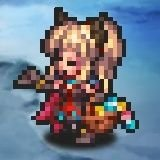
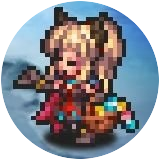
ファビコン設定

diff --git a/index.html b/index.html
@@ -20,11 +20,12 @@
     <meta property="og:description" content="ロマサガRS運営からのお便りまとめ" /> <!--記事の要約（ディスクリプション）-->
     <meta property="og:image" content="https://taumax-github.github.io/sagamax/images/sagamax.png" /> <!--画像のURL-->
 
+    <link rel="icon"       href="images/favicon.ico">
     <link rel="stylesheet" href="css/style.css">
     <link rel="stylesheet" href="css/print.css" media="print">
     <script src="js/openclose.js"></script>
 
-    <title>ロマサガRS運営からのお便りまとめ</title>
+    <title>ｓａｇａｍａｘのページ</title>
     
     <!--[if lt IE 9]>
     <script src="https://oss.maxcdn.com/html5shiv/3.7.2/html5shiv.min.js"></script>
@@ -51,7 +52,7 @@
 <header class="pc">
   <!--PC用（801px以上端末）メニュー-->
   <ul class="icon">
-    <li><a href="https://twitter.com/sagamax__" target="_blank"><img src="images/icon_twitter.png" alt="Twitter"></a></li>
+    <li><a href="https://twitter.com/sagamax__" target="_blank"><img src="images/icon_twitter.png" alt="Twitter"><br><font size="2px">@sagamax</font></a></li>
   </ul>
   <nav>
   </nav>
@@ -65,7 +66,7 @@
     <nav>
     </nav>
     <ul class="icon">
-      <li><a href="https://twitter.com/sagamax__" target="_blank"><img src="images/icon_twitter.png" alt="Twitter"></a></li>
+    <li><a href="https://twitter.com/sagamax__" target="_blank"><img src="images/icon_twitter.png" alt="Twitter"><br><font size="2px">@sagamax</font></a></li>
     </ul>
 
   </div>
@@ -79,10 +80,10 @@
   <div id="main">
     <span id="pagetop"></span>
     <section class="box">
-
-      <h2 class="title">sagamaxのなんちゃら</h2>
       <!-- tweetボタン -->
       <a href="https://twitter.com/share?ref_src=twsrc%5Etfw" class="twitter-share-button" data-show-count="false">Tweet</a><script async src="https://platform.twitter.com/widgets.js" charset="utf-8"></script><br>
+
+      <h2 class="title">ｓａｇａｍａｘのロマサガＲＳ</h2>
 
       <p>デザインダサいのを何とかしたいのう・・・<p>
       <a href="poison/poisondamage.html">ロマ佐賀ワグナス毒ダメージ検証</a><br>

diff --git a/contents/unei/monthly_letter.html b/contents/unei/monthly_letter.html
@@ -20,6 +20,7 @@
     <meta property="og:description" content="ロマサガRS運営からのお便りまとめ" /> <!--記事の要約（ディスクリプション）-->
     <meta property="og:image" content="https://taumax-github.github.io/sagamax/images/sagamax.png" /> <!--画像のURL-->
 
+    <link rel="icon"       href="../../images/favicon.ico">
     <link rel="stylesheet" href="../../css/style.css">
     <link rel="stylesheet" href="../../css/print.css" media="print">
     <script src="../../js/openclose.js"></script>
@@ -51,7 +52,7 @@
 <header class="pc">
   <!--PC用（801px以上端末）メニュー-->
   <ul class="icon">
-    <li><a href="https://twitter.com/sagamax__" target="_blank"><img src="../../images/icon_sagamax.png" alt="Twitter"><br><font size="2px">@sagamax</font></a></li>
+    <li><a href="https://twitter.com/sagamax__" target="_blank"><img src="../../images/icon_twitter.png" alt="Twitter"><br><font size="2px">@sagamax</font></a></li>
   </ul>
   <nav>
     <ul class="icon">
@@ -107,7 +108,7 @@
     </ul>
     </nav>
     <ul class="icon">
-      <li><a href="https://twitter.com/sagamax__" target="_blank"><img src="../../images/icon_sagamax.png" alt="Twitter"><br><font size="2px">@sagamax</font></a></li>
+      <li><a href="https://twitter.com/sagamax__" target="_blank"><img src="../../images/icon_twitter.png" alt="Twitter"><br><font size="2px">@sagamax</font></a></li>
     </ul>
 
   </div>
@@ -124,7 +125,7 @@
 
       <!-- tweetボタン -->
       <a href="https://twitter.com/share?ref_src=twsrc%5Etfw" class="twitter-share-button" data-show-count="false">Tweet</a><script async src="https://platform.twitter.com/widgets.js" charset="utf-8"></script>
-      <h2 class="title">ロマサガＲＳ運営からのお便りまとめ<img src="img/201903.gif"></h2>
+      <h2 class="title"><img src="img/201903.gif">ロマサガＲＳ運営からのお便りまとめ</h2>
 
       <span id="202005"></span>
       <h3 class="title">2020年5月</h3>

diff --git a/poison/poisondamage.html b/poison/poisondamage.html
@@ -20,6 +20,7 @@
     <meta property="og:description" content="最強キャラのステータスに依存して毒ダメージが上昇していることの検証結果" /> <!--記事の要約（ディスクリプション）-->
     <meta property="og:image" content="https://taumax-github.github.io/sagamax/images/sagamax.png" /> <!--画像のURL-->
 
+    <link rel="icon"       href="../images/favicon.ico">
     <link rel="stylesheet" href="../css/style.css">
     <link rel="stylesheet" href="../css/print.css" media="print">
     <script src="../js/openclose.js"></script>
@@ -51,7 +52,7 @@
 <header class="pc">
   <!--PC用（801px以上端末）メニュー-->
   <ul class="icon">
-    <li><a href="https://twitter.com/sagamax__" target="_blank"><img src="../images/icon_twitter.png" alt="Twitter"></a></li>
+    <li><a href="https://twitter.com/sagamax__" target="_blank"><img src="../images/icon_twitter.png" alt="Twitter"><br><font size="2px">@sagamax</font></a></li>
   </ul>
 </header>
 <!--/.pc-->
@@ -63,7 +64,7 @@
     <nav>
     </nav>
   <ul class="icon">
-    <li><a href="https://twitter.com/sagamax__" target="_blank"><img src="../images/icon_twitter.png" alt="Twitter"></a></li>
+    <li><a href="https://twitter.com/sagamax__" target="_blank"><img src="../images/icon_twitter.png" alt="Twitter"><br><font size="2px">@sagamax</font></a></li>
   </ul>
 
   </div>
@@ -77,10 +78,10 @@
   <div id="main">
     <span id="pagetop"></span>
     <section class="box">
-
-      <h2 class="title">ワグナス毒ダメ検証</h2>
       <!-- tweetボタン -->
       <a href="https://twitter.com/share?ref_src=twsrc%5Etfw" class="twitter-share-button" data-show-count="false">Tweet</a><script async src="https://platform.twitter.com/widgets.js" charset="utf-8"></script>
+
+      <h2 class="title">ワグナス毒ダメ検証</h2>
 
       <h3 class="title">この記事を書いたきっかけ</h3>
 
